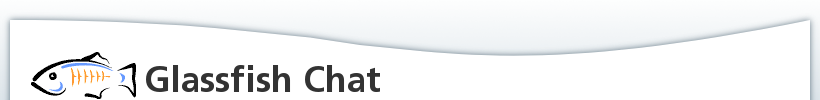
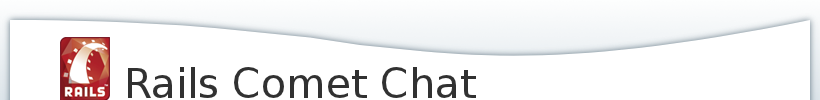
finishing up the railsified html structure for the chat app. Now to figure out how to get atmosphere attached...

Changed region(s): [[0.0305, 0.36, 0.5793, 1.0]]

diff --git a/vendor/assets/javascripts/externals.js b/vendor/assets/javascripts/externals.js
@@ -1,4 +1,4 @@
 //= require ./prototype
-//= require ./behavoir
+//= require ./behaviour
 //= require ./moo.fx
 //= require ./moo.fx.pack

diff --git a/app/assets/javascripts/application.js b/app/assets/javascripts/application.js
@@ -5,6 +5,5 @@
 // the compiled file.
 //
 //= require externals
-//= require self
 //= require ./atmosphere
 
